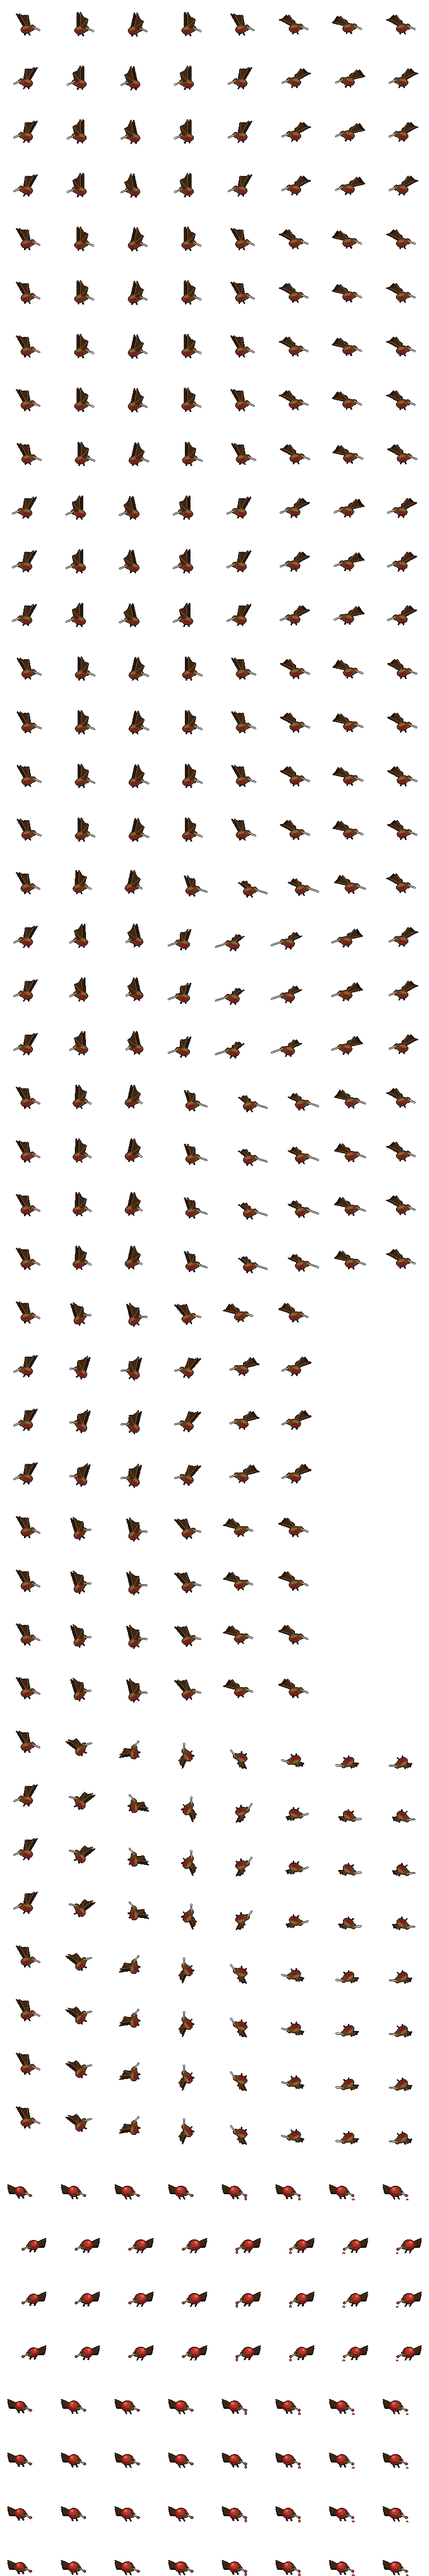
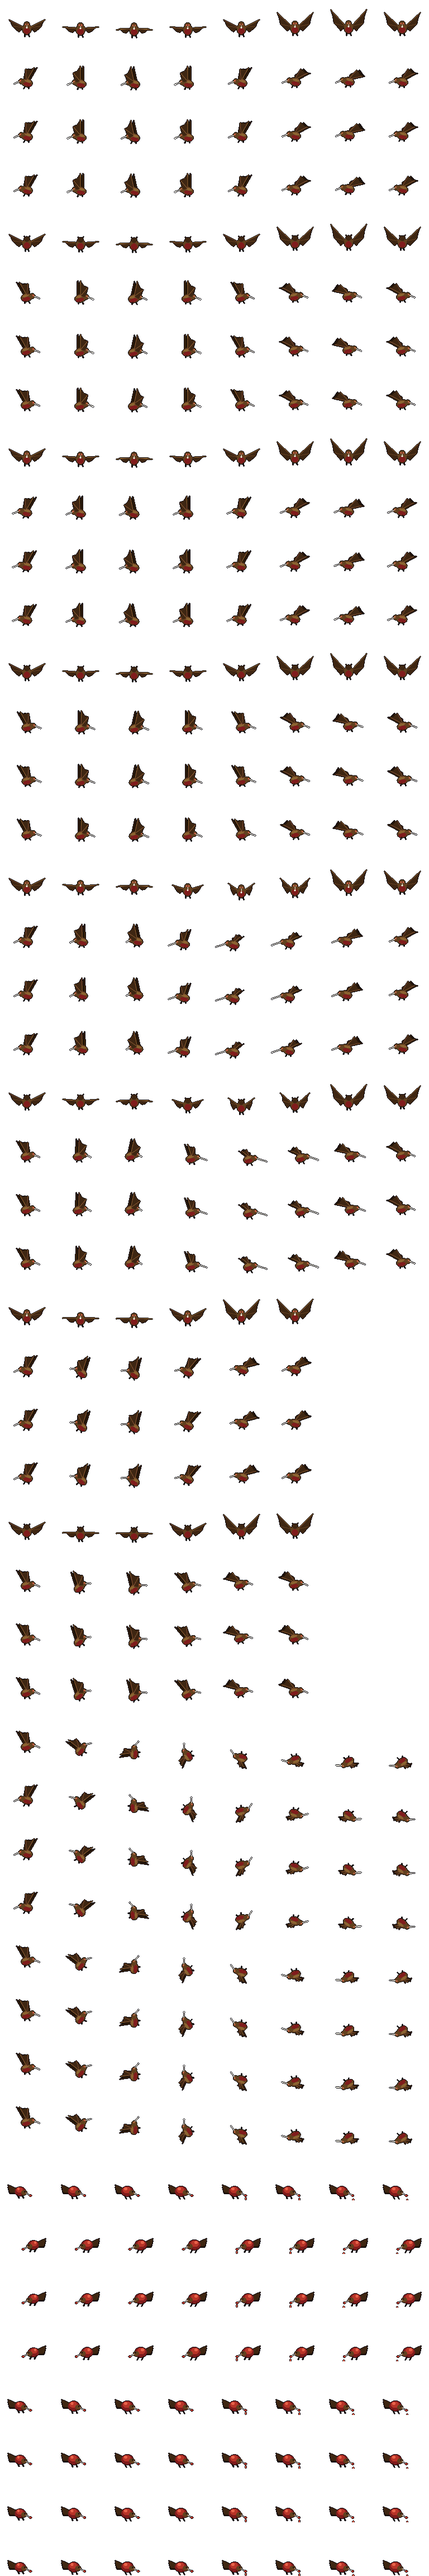
The wisp's Invisibility at will, and a front and a back for the three bugs (Griz, 10-05: "we SRD when we can"; "yes on bug frames"). foes.js wisp invisibility 'atwill' (battle.js invis.atWill, ai.js: an action, not once a fight; it still ends on an attack). tools/bugs-sheet.py: front (S) and back (N

diff --git a/deep16/data/foes.js b/deep16/data/foes.js
@@ -378,10 +378,10 @@
   },
   // the will-o'-wisp (10-05, Griz: "lets see how cool wisps can look"; "Let's try code drawn"): the sheet is drawn in code (tools/wisp-sheet.py). SRD 5.1 Will-o'-Wisp, CR 2, Tiny, fly 50.
   // Its light is `glow` (js/light.js L.carried: bright 10, dim 10 of the SRD's 5-20 Variable Illumination; it goes out with it when it turns invisible).
-  // Invisibility is the duergar's once-a-fight (ai.js brute; the SRD's is at will, an action, and ends on an attack). NOT BUILT: Consume Life (bonus action, a creature at 0 HP within 5 ft dies,
+  // Invisibility is at will, an action, ending on an attack (SRD; Griz 10-05: "we SRD when we can"; ai.js brute, `invisibility: 'atwill'`). NOT BUILT: Consume Life (bonus action, a creature at 0 HP within 5 ft dies,
   // the wisp heals 3d6), Incorporeal Movement (through creatures and objects, 1d10 force if it ends inside), flight (it goes round, not over, like the bat).
   wisp: {
-    name: "Will-o'-Wisp", type: 'undead', sheet: 'wisp_p1', cr: '2', ac: 19, hp: 22, speed: 50, size: 1, reach: 5, darkvision: 120, invisibility: true, glow: { bright: 10, dim: 10, color: 'glow' },
+    name: "Will-o'-Wisp", type: 'undead', sheet: 'wisp_p1', cr: '2', ac: 19, hp: 22, speed: 50, size: 1, reach: 5, darkvision: 120, invisibility: 'atwill', glow: { bright: 10, dim: 10, color: 'glow' },
     abil: { str: 1, dex: 28, con: 10, int: 13, wis: 14, cha: 11 }, init: 9, perception: 12,
     saves: { str: -5, dex: 9, con: 0, int: 1, wis: 2, cha: 0 },
     attacks: { shock: { name: 'Shock', atk: 4, dice: '2d8', mod: 0, type: 'lightning', reach: 5 } },

diff --git a/deep16/index.html b/deep16/index.html
@@ -74,13 +74,13 @@
 <script src="js/art.js?v=1b2a34fbd2"></script>
 <script src="data/cavern.js?v=be1f3e2321"></script>
 <script src="data/maps.js?v=ff9cc02e5f"></script>
-<script src="data/sprites.js?v=6c9bb32ad0"></script>
+<script src="data/sprites.js?v=f364c25771"></script>
 <script src="js/sprites.js?v=23f8a73e0d"></script>
 <script src="js/save.js?v=03855733a9"></script>
 <script src="data/spells.js?v=3b92cc7428"></script>
 <script src="data/durations.js?v=2a9cff48b4"></script>
 <script src="data/fights.js?v=95afb6da66"></script>
-<script src="data/foes.js?v=a67ce8664d"></script>
+<script src="data/foes.js?v=ed35ca613d"></script>
 <script src="data/summons.js?v=5d8c3d82cc"></script>
 <script src="data/features.js?v=f4d1a4f25e"></script>
 <script src="js/classes.js?v=641dc722e0"></script>
@@ -91,13 +91,13 @@
 <script src="js/magic.js?v=9c6f001799"></script>
 <script src="js/grimoire.js?v=4cda83c464"></script>
 <script src="js/walls.js?v=ed56849915"></script>
-<script src="js/ai.js?v=db4a701cbb"></script>
+<script src="js/ai.js?v=ddb6980be3"></script>
 <script src="js/tactics.js?v=e0973cad89"></script>
 <script src="js/features.js?v=eba45b3cab"></script>
 <script src="js/traits.js?v=3bd6520295"></script>
 <script src="js/familiar.js?v=0edf39243e"></script>
 <script src="js/icons.js?v=b3074728cf"></script>
-<script src="js/battle.js?v=ff63b3a4fe"></script>
+<script src="js/battle.js?v=dac67dfd6e"></script>
 <script src="js/looks.js?v=fe75025a13"></script>
 <script src="js/pyro.js?v=983c6c8120"></script>
 <script src="js/wet.js?v=a8a7d438d0"></script>

diff --git a/deep16/js/battle.js b/deep16/js/battle.js
@@ -308,7 +308,7 @@
       // senses (SRD 5.1; torchdark 09-28): how far it sees in the dark, or by blindsight (and blind past it: the oozes, the darkmantle),
       // and what it does with the dark itself (the darkmantle's aura, the duergar's Invisibility: ai.js brute)
       darkvision: d.darkvision || 0, blindsight: d.blindsight || 0, blind: !!d.blind, truesight: d.truesight || 0, devilSight: !!d.devilSight,
-      aura: d.darknessAura ? { used: false } : null, invis: d.invisibility ? { used: false } : null, glow: d.glow || null, // (glow: a creature that sheds light -- the will-o'-wisp; js/light.js L.carried)
+      aura: d.darknessAura ? { used: false } : null, invis: d.invisibility ? { used: false, atWill: d.invisibility === 'atwill' } : null, glow: d.glow || null, // (glow: a creature that sheds light -- the will-o'-wisp; js/light.js L.carried)
       mirrorEye: !!d.mirrorEye // the Mirror's warlocks (RULED 09-28): no hiding or invisibility before her, in light (magic.js inMirror)
     };
   };

diff --git a/deep16/js/ai.js b/deep16/js/ai.js
@@ -781,7 +781,7 @@
     // the duergar's Invisibility (SRD, an action; torchdark 09-28): with no one in reach yet it fades from sight and closes unseen;
     // the first blow, a spell or its Enlarge ends it (battle.js attack)
     if (u.invis && !u.invis.used && !u.conds.invisible && T.action && hs.length && !hs.some(function (w) { return G.dist(u, w) <= reachOf(u); })) {
-      T.action = 0; u.invis.used = true; u.conds.invisible = { ends: true }; delete u.conds.hidden; D.sfx('magic'); FX.sparkle(u, 'silver', 18);
+      T.action = 0; u.invis.used = !u.invis.atWill; u.conds.invisible = { ends: true }; delete u.conds.hidden; D.sfx('magic'); FX.sparkle(u, 'silver', 18);
       B.card(['{r}' + the(B, u) + '{/} fades out of sight.  {g}(Invisibility: till it attacks, casts or grows){/}'], 360);
       yield 30;
       var closeOn = hs.slice().sort(function (a, b) { return G.dist(u, a) - G.dist(u, b); })[0], e0 = approach(u, closeOn, G.reach(u, T.move), reachOf(u));

diff --git a/deep16/data/sprites.js b/deep16/data/sprites.js
@@ -667,7 +667,7 @@
 "source": "generated by Griz (2026-09-29, two sheets), keyed off the checkerboard and the flat ground and snapped by tools/bulette-sheet.py"
 },
 "centipede_p1": {
-"image": "art/centipede_p1.png?v=7c3969aa0f",
+"image": "art/centipede_p1.png?v=5b1ecd518b",
 "fw": 96,
 "fh": 96,
 "ax": 48,
@@ -1659,7 +1659,7 @@
 }
 },
 "firebeetle_p1": {
-"image": "art/firebeetle_p1.png?v=34db2fc0af",
+"image": "art/firebeetle_p1.png?v=70cd91d2ad",
 "fw": 96,
 "fh": 96,
 "ax": 48,
@@ -6102,7 +6102,7 @@
 }
 },
 "stirge_p1": {
-"image": "art/stirge_p1.png?v=df5ce8c5bb",
+"image": "art/stirge_p1.png?v=0141b9e168",
 "fw": 96,
 "fh": 96,
 "ax": 48,

diff --git a/tools/bugs-sheet.py b/tools/bugs-sheet.py
@@ -223,6 +223,149 @@ def stirge_rows():
     return {'idle': idle, 'walk': walk, 'attack': atk, 'flinch': flinch, 'hurt': hurt, 'latched': latched}
 
 
+# ------------------------------------------------------------------ front (S, toward the viewer) and back (N, away) views
+def beetle_fb(view, ph=0.0, walk=0.0, bite=0.0, lift=0.0, pulse=0.5, nudge=0.0):
+    c = ca.Canvas(FW, FH)
+    L, front = lift, view == 'S'
+    dark, mid, hi = C('leather', 1), C('leather', 2), C('leather', 3)
+    legc = C('stone', 3)
+
+    def legs(sign, off):
+        for k, (hy, kx, ky, fx) in enumerate(((68, 12, 64, 16), (73, 14, 71, 14), (77, 14, 77, 18))):
+            sw = S(PI2 * (ph + (k % 2) * 0.5 + off)) * 3.5 * walk
+            lf = max(0.0, S(PI2 * (ph + (k % 2) * 0.5 + off) + 1.57)) * 3.5 * walk
+            hx = 48 + sign * 11
+            c.line([(hx, hy - L), (48 + sign * (11 + kx), ky - L), (48 + sign * (11 + fx) + sw * 0.0, 84 - lf + (0 if k < 2 else 0))], 2.2, legc)
+    legs(-1, 0.0); legs(1, 0.5)
+    if front:
+        c.ell(48, 56 - L, 21, 17, dark)                      # the carapace, rising behind the head
+        c.ell(48, 51 - L, 14, 8, mid)
+        c.line([(48, 40 - L), (48, 62 - L)], 0.9, dark)
+        hy = 68 - L + bite * 3
+        c.ell(48, hy, 11, 9.4, C('stone', 2))
+        c.ell(48, hy - 3, 7, 3, C('stone', 4))
+        op = 1.0 + bite * 4
+        c.line([(41, hy + 5), (43 - op, hy + 10 + bite), (47, hy + 12 + bite * 2)], 2.2, C('bone', 0))
+        c.line([(55, hy + 5), (53 + op, hy + 10 + bite), (49, hy + 12 + bite * 2)], 2.2, C('bone', 0))
+        for ex in (42.5, 53.5):
+            c.ell(ex, hy - 1, 1.6, 1.6, C('outline', 0))
+        w = S(PI2 * ph * 2) * 2
+        c.line([(41, hy - 7), (33, hy - 15 + w), (27, hy - 17 + w)], 1.0, C('stone', 5))
+        c.line([(55, hy - 7), (63, hy - 15 + w), (69, hy - 17 + w)], 1.0, C('stone', 5))
+        for gx in (40.5, 55.5):
+            c.glow(gx, hy - 5.5, 7, C('fire', 1), 0.55 * (0.7 + 0.5 * pulse))
+            c.ell(gx, hy - 5.5, 3.2, 2.6, C('fire', 1)); c.ell(gx - 0.4, hy - 6, 1.7, 1.3, C('fire', 2))
+    else:
+        c.ell(48, 61 - L, 23, 20, dark)                      # the elytra from behind, the seam down the middle
+        c.ell(48, 55 - L, 16, 11, mid)
+        c.ell(45, 48 - L, 7, 3, hi)
+        c.line([(48, 42 - L), (48, 78 - L)], 1.2, dark)
+        for ry in (52, 60, 68):
+            c.line([(30, ry - L), (48, ry + 3 - L), (66, ry - L)], 0.8, dark)
+        gy = 74 - L
+        c.glow(48, gy, 9, C('fire', 1), 0.6 * (0.7 + 0.5 * pulse))
+        c.ell(48, gy, 5.2, 3.8, C('fire', 1)); c.ell(47.4, gy - 0.7, 2.8, 1.8, C('fire', 2))
+    return c.finish(sc=0.8)
+
+
+def centipede_fb(view, ph=0.0, walk=0.0, rear=0.0, bite=0.0, nudge=0.0):
+    c = ca.Canvas(FW, FH)
+    front = view == 'S'
+    n = 9
+    red_a, red_b, hi = C('red', 3), C('red', 2), C('red', 4)
+    legc, legf = C('gold', 3), C('gold', 1)
+    # the body seen along its length: nearest segment low and big, the far ones up and small
+    segs = []
+    for k in range(n):
+        u = k / (n - 1)                                   # 0 near, 1 far
+        segs.append((48 + S(PI2 * (-ph) + u * 5) * 2.2 * walk, 76 - u * 30 - rear * u * 8, 9.5 - 4.6 * u, 6.4 - 2.4 * u))
+    for k in range(n - 1, -1, -1):                        # far to near
+        x, y, rx, ry = segs[k]
+        sw = S(PI2 * (ph * 2 + k * 0.3)) * 2.5 * walk
+        for sg in (-1, 1):
+            c.line([(x + sg * rx * 0.7, y), (x + sg * (rx + 6 + sw), y + 4 + (n - k) * 0.2), (x + sg * (rx + 9 + sw), y + 9 + (n - k) * 0.5)], 1.5, legf if sg < 0 else legc)
+        c.ell(x, y, rx, ry, red_a if k % 2 == 0 else red_b)
+        c.ell(x, y - ry * 0.45, rx * 0.8, ry * 0.4, hi)
+    x0, y0, rx0, _ = segs[0]
+    if front:
+        hy = y0 + 2 + bite * 3
+        c.ell(x0, hy, 12, 9.2, C('red', 4)); c.ell(x0, hy - 3, 8, 3, C('fire', 2))
+        for ex in (x0 - 4.5, x0 + 4.5):
+            c.ell(ex, hy - 1, 1.5, 1.5, C('outline', 0))
+        op = 1 + bite * 5
+        c.line([(x0 - 6, hy + 5), (x0 - 7 - op * 0.4, hy + 11), (x0 - 2, hy + 14 + bite * 2)], 2.4, C('bone', 1))
+        c.line([(x0 + 6, hy + 5), (x0 + 7 + op * 0.4, hy + 11), (x0 + 2, hy + 14 + bite * 2)], 2.4, C('bone', 1))
+        w = S(PI2 * ph * 2) * 2
+        c.line([(x0 - 6, hy - 6), (x0 - 16, hy - 14 + w), (x0 - 22, hy - 15 + w)], 1.0, legc)
+        c.line([(x0 + 6, hy - 6), (x0 + 16, hy - 14 + w), (x0 + 22, hy - 15 + w)], 1.0, legc)
+    else:
+        w = S(PI2 * ph) * 2
+        c.line([(x0 - 3, y0 + 4), (x0 - 7, y0 + 12 + w)], 1.0, legc)                  # the tail's feelers
+        c.line([(x0 + 3, y0 + 4), (x0 + 7, y0 + 12 - w)], 1.0, legc)
+    return c.finish(sc=0.9)
+
+
+def stirge_fb(view, ph=0.0, flap=1.0, dive=0.0, fold=0.0, drop=0.0):
+    c = ca.Canvas(FW, FH)
+    front = view == 'S'
+    body, belly, wing_n, wing_f = C('leather', 2), C('red', 2), C('leather', 1), C('leather', 0)
+    cx, cy = 48, 52 + drop + S(PI2 * ph) * 2.0 + dive * 8
+    a = ((0.25 + 0.95 * S(PI2 * ph)) * flap + (1 - flap) * 0.4) * (1 - fold) - 0.5 * fold
+    for sg in (-1, 1):                                    # the wings, spread, beating
+        sx, sy = cx + sg * 5, cy - 3
+        up = 0.9 - a * 0.7                                # how far up the tip goes
+        spread = 1 - 0.55 * fold
+        tip = (sx + sg * 27 * spread, sy - 24 * up * spread + 4)
+        mid = (sx + sg * 21 * spread, sy - 3 + 3 * a)
+        low = (sx + sg * 9, sy + 8)
+        c.poly([(sx, sy), tip, (tip[0] - sg * 4, (tip[1] + mid[1]) / 2), mid, ((mid[0] + low[0]) / 2, mid[1] + 6), low], wing_n)
+        c.line([(sx, sy), tip], 1.0, C('leather', 3)); c.line([(sx, sy), mid], 0.9, C('leather', 3))
+    c.ell(cx, cy, 8, 9.5, body)
+    c.ell(cx, cy + 3, 5.6, 5.5, belly)
+    if front:
+        c.ell(cx, cy - 8, 5.2, 4.6, C('leather', 2))
+        for ex in (-2, 2):
+            c.ell(cx + ex, cy - 8.4, 1.1, 1.1, C('red', 4))
+        c.line([(cx, cy - 6), (cx, cy - 3 + dive * 3)], 1.2, C('bone', 1))             # the proboscis, foreshortened at the viewer
+        c.ell(cx, cy - 2.5 + dive * 3, 1.3, 1.3, C('bone', 2))
+    else:
+        c.ell(cx, cy - 8, 5, 4.4, C('leather', 1))
+        for ex in (-4, 4):
+            c.poly([(cx + ex, cy - 11), (cx + ex * 1.5, cy - 15), (cx + ex * 0.4, cy - 11)], C('leather', 1))   # the ears
+        c.line([(cx - 2, cy + 8), (cx - 3, cy + 13)], 1.1, wing_f); c.line([(cx + 2, cy + 8), (cx + 3, cy + 13)], 1.1, wing_f)
+    if front:
+        c.line([(cx - 3, cy + 8), (cx - 4, cy + 13)], 1.1, wing_f); c.line([(cx + 3, cy + 8), (cx + 4, cy + 13)], 1.1, wing_f)
+    return c.finish()
+
+
+def with_fb(name, rows):
+    """Bring each row's front (S) and back (N) beside its side frames; hurt keeps the side frames (as the clacker's sheet)."""
+    out = {}
+    for an, fr in rows.items():
+        if an in ('hurt', 'latched'):
+            out[an] = fr
+            continue
+        n = len(fr)
+        d = {'side': fr}
+        for v in ('S', 'N'):
+            if name == 'firebeetle':
+                if an == 'idle': d[v] = [beetle_fb(v, ph=i / n, pulse=0.5 + 0.5 * S(PI2 * i / n), lift=0.6 * S(PI2 * i / n)) for i in range(n)]
+                elif an == 'walk': d[v] = [beetle_fb(v, ph=i / n, walk=1.0, pulse=0.5 + 0.5 * S(PI2 * i / n), lift=1.2 * abs(S(PI2 * i / n))) for i in range(n)]
+                elif an == 'attack': d[v] = [beetle_fb(v, ph=i / n, bite=b, lift=l, pulse=0.9) for i, (b, l) in enumerate(zip([0, .2, .5, 1, 1, .6, .2, 0], [0, 1, 2, 0, 0, 0, 0, 0]))]
+                else: d[v] = [beetle_fb(v, ph=i / n, bite=0.4, lift=l, pulse=0.2) for i, l in enumerate([0, 2, 1, 0, 0, 0])]
+            elif name == 'centipede':
+                if an == 'idle': d[v] = [centipede_fb(v, ph=i / n, walk=0.2) for i in range(n)]
+                elif an == 'walk': d[v] = [centipede_fb(v, ph=i / n, walk=1.0) for i in range(n)]
+                elif an == 'attack': d[v] = [centipede_fb(v, ph=i / n, walk=0.3, rear=r, bite=b) for i, (r, b) in enumerate(zip([0, .15, .45, .8, .55, .2, 0, 0], [0, 0, .3, 1, 1, .4, 0, 0]))]
+                else: d[v] = [centipede_fb(v, ph=i / n, walk=0.5, rear=r, bite=0.5) for i, r in enumerate([0, .5, .6, .3, .1, 0])]
+            elif name == 'stirge':
+                if an in ('idle', 'walk'): d[v] = [stirge_fb(v, ph=i / n) for i in range(n)]
+                elif an == 'attack': d[v] = [stirge_fb(v, ph=i / n, dive=dv, fold=f) for i, (dv, f) in enumerate(zip([0, -.2, -.4, .5, 1, .8, .3, 0], [0, 0, 0, .3, .6, .4, 0, 0]))]
+                else: d[v] = [stirge_fb(v, ph=i / n, drop=dd) for i, dd in enumerate([0, 3, 4, 2, 1, 0])]
+        out[an] = d
+    return out
+
+
 MAKE = {'stirge': (stirge_rows, 'stirge_p1', 62, {'idle': 8, 'walk': 10, 'attack': 12, 'flinch': 10, 'hurt': 8, 'latched': 6}),
         'firebeetle': (beetle_rows, 'firebeetle_p1', 52, {'idle': 6, 'walk': 10, 'attack': 12, 'flinch': 10, 'hurt': 8}),
         'centipede': (centipede_rows, 'centipede_p1', 50, {'idle': 8, 'walk': 12, 'attack': 12, 'flinch': 10, 'hurt': 8})}
@@ -231,7 +374,7 @@ if __name__ == '__main__':
     names = [a for a in sys.argv[1:] if a in MAKE] or list(MAKE)
     for nm in names:
         fn, out, top, fps = MAKE[nm]
-        rows = fn()
+        rows = with_fb(nm, fn())
         if 'preview' in sys.argv:
             ca.preview(rows, os.path.join(ca.ROOT, 'dev', 'shots', 'bugs-%s.png' % nm))
         else:

diff --git a/tools/codeart.py b/tools/codeart.py
@@ -113,16 +113,18 @@ FACINGS = 8
 def lay(anims, FW, FH, AX, AY, top, source, name, fps_of=None, flipset=(1, 2, 3)):
     """anims: {anim: [Image frames facing right]}; writes deep16/art/<name>.png + .json. Facings 1,2,3 (SW, W, NW) mirrored; the rest as drawn."""
     order = list(anims)
-    sheet = Image.new('RGBA', (FW * max(len(v) for v in anims.values()), FH * FACINGS * len(order)))
+    sheet = Image.new('RGBA', (FW * max(len(v['side'] if isinstance(v, dict) else v) for v in anims.values()), FH * FACINGS * len(order)))
     meta = {}
     y = 0
     for an in order:
         fr = anims[an]
+        side = fr['side'] if isinstance(fr, dict) else fr      # a row may bring its own front (S) and back (N): {'side': [...], 'S': [...], 'N': [...]}
         fps = (fps_of or {}).get(an, 8)
-        meta[an] = {'y': y, 'fw': FW, 'fh': FH, 'ax': AX, 'ay': AY, 'frames': len(fr), 'fps': fps}
+        meta[an] = {'y': y, 'fw': FW, 'fh': FH, 'ax': AX, 'ay': AY, 'frames': len(side), 'fps': fps}
         for f in range(FACINGS):
-            for i, im in enumerate(fr):
-                sheet.paste(mirror(im) if f in flipset else im, (i * FW, y + f * FH))
+            frames = fr.get({0: 'S', 4: 'N'}.get(f), side) if isinstance(fr, dict) else side
+            for i, im in enumerate(frames):
+                sheet.paste(mirror(im) if (f in flipset and frames is side) else im, (i * FW, y + f * FH))
         y += FH * FACINGS
     sheet.save(os.path.join(D16, 'art', name + '.png'), optimize=True)
     json.dump({'image': 'art/%s.png' % name, 'fw': FW, 'fh': FH, 'ax': AX, 'ay': AY, 'top': top, 'source': source, 'anims': meta},
@@ -132,11 +134,18 @@ def lay(anims, FW, FH, AX, AY, top, source, name, fps_of=None, flipset=(1, 2, 3)
 
 def preview(anims, path, scale=3, bg=(40, 32, 28, 255)):
     rows = list(anims)
-    FW, FH = next(iter(anims.values()))[0].size
-    n = max(len(v) for v in anims.values())
-    out = Image.new('RGBA', (FW * n, FH * len(rows)), bg)
-    for r, an in enumerate(rows):
-        for i, im in enumerate(anims[an]):
+    first = next(iter(anims.values()))
+    FW, FH = (first['side'] if isinstance(first, dict) else first)[0].size
+    lines = []                                          # a row with a front and a back previews as three lines
+    for an in rows:
+        v = anims[an]
+        lines.append(v['side'] if isinstance(v, dict) else v)
+        if isinstance(v, dict):
+            lines += [v['S'], v['N']] if 'S' in v else []
+    n = max(len(v) for v in lines)
+    out = Image.new('RGBA', (FW * n, FH * len(lines)), bg)
+    for r, fr in enumerate(lines):
+        for i, im in enumerate(fr):
             out.alpha_composite(im, (i * FW, r * FH))
     out = out.resize((out.width * scale // 2, out.height * scale // 2), Image.NEAREST)
     os.makedirs(os.path.dirname(path), exist_ok=True)
